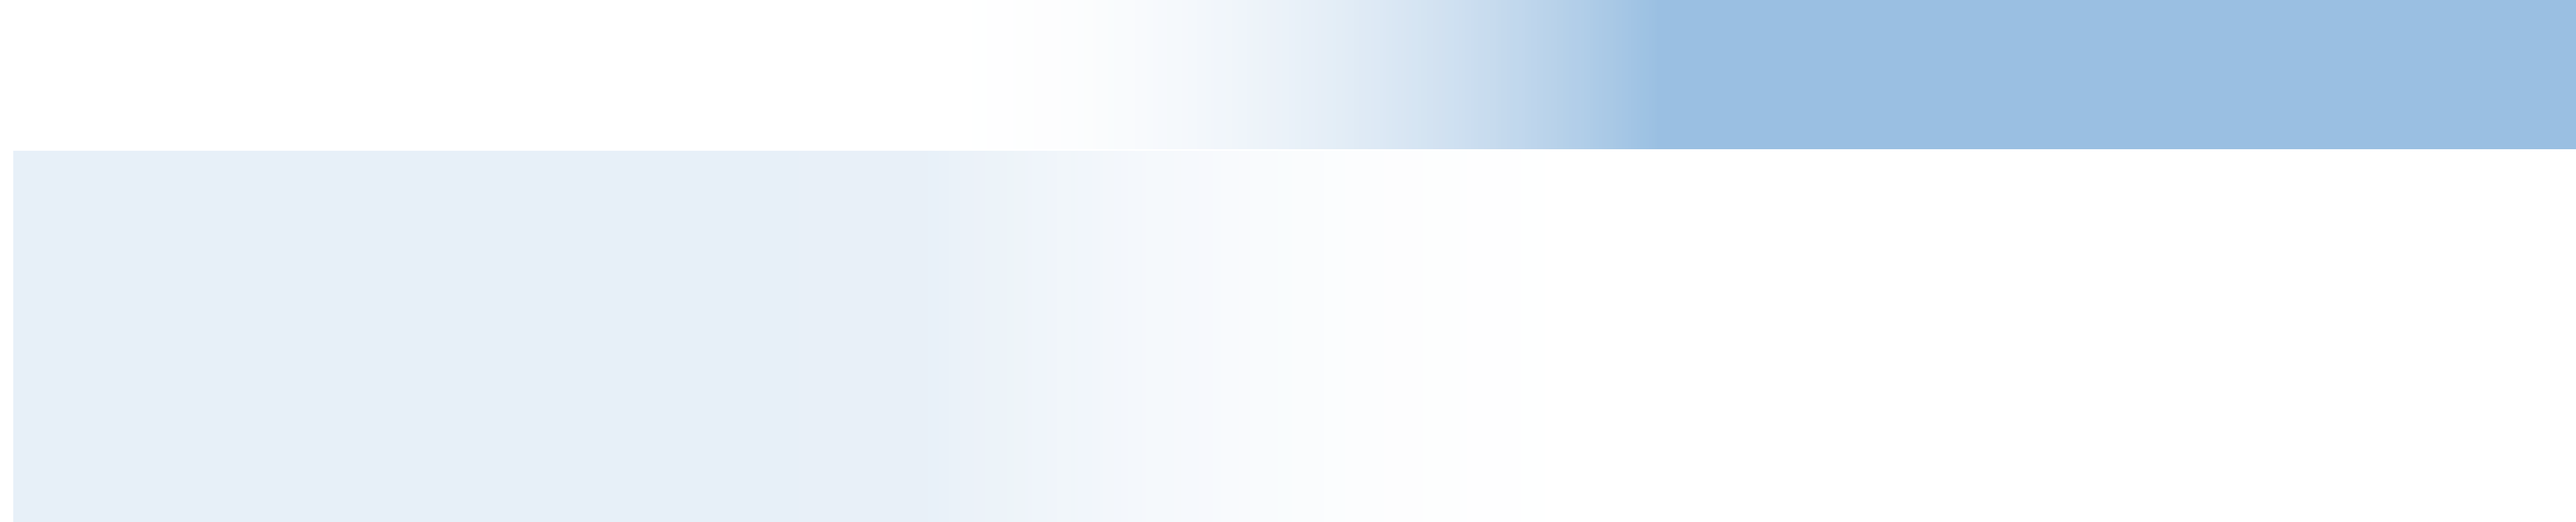
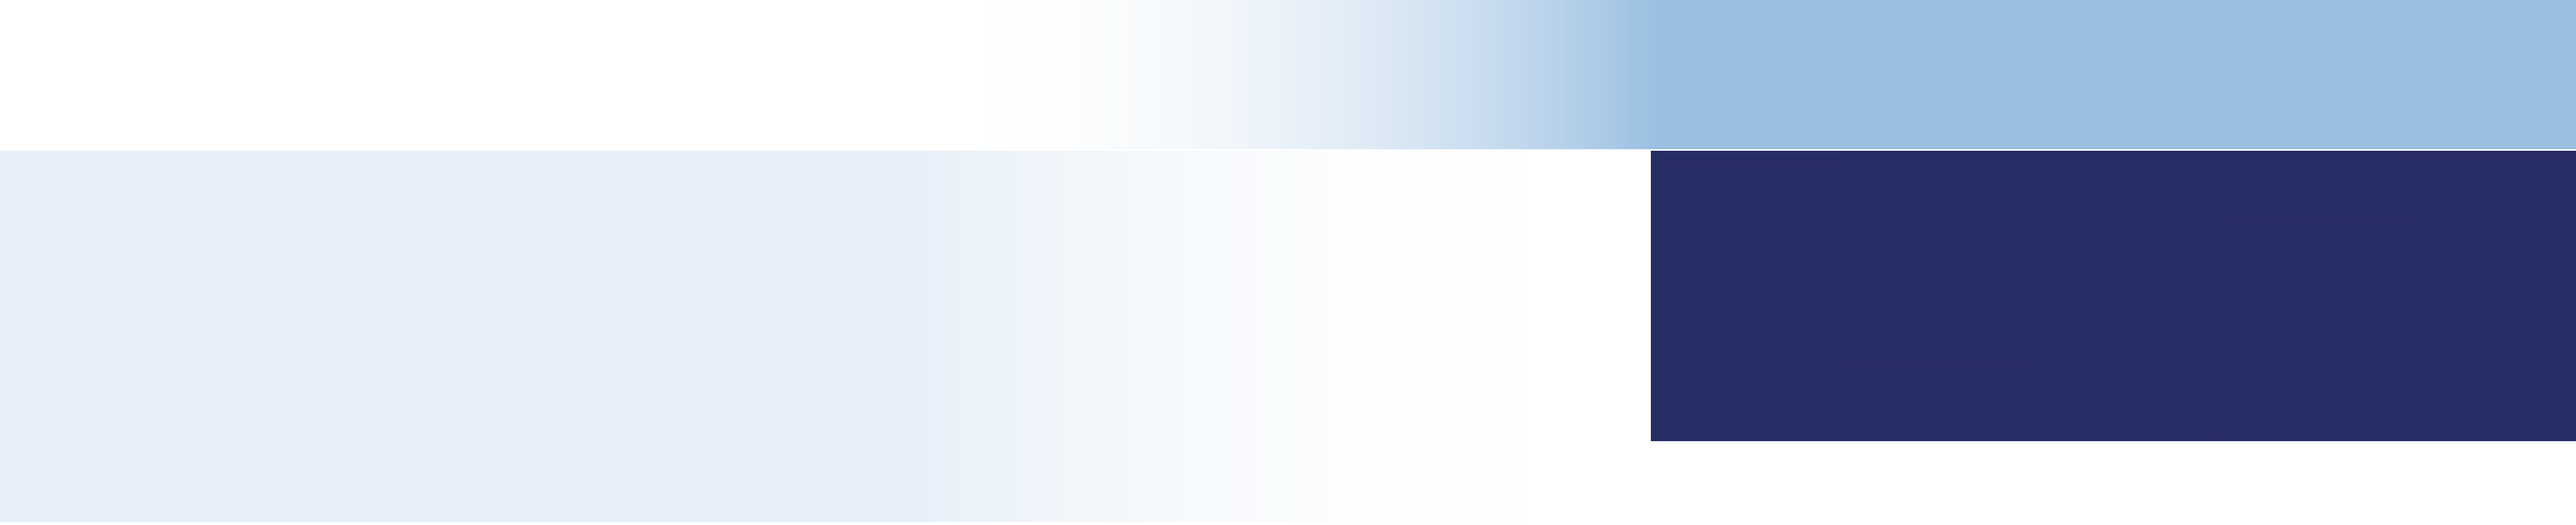
new blog bg

Changed region(s): [[0.6229, 0.2789, 1.0, 0.8676]]

diff --git a/wp-content/themes/fifth-third/css/screen.css b/wp-content/themes/fifth-third/css/screen.css
@@ -511,19 +511,19 @@ h2 {
 
 /* line 1, ../sass/includes/_blog.scss */
 .blog {
[2 lines of base64/hex data omitted]
   background-repeat: no-repeat;
   background-position: top center;
 }
 /* line 5, ../sass/includes/_blog.scss */
 .blog .left {
-  width: 701px;
+  width: 674px;
   height: 393px;
-  padding: 0px 20px 70px 53px;
+  padding: 40px 20px 70px 53px;
 }
 /* line 10, ../sass/includes/_blog.scss */
 .blog .right {
-  width: 323px;
+  width: 350px;
 }
 /* line 12, ../sass/includes/_blog.scss */
 .blog .right .block {
@@ -531,36 +531,35 @@ h2 {
 }
 /* line 16, ../sass/includes/_blog.scss */
 .blog .blog-header {
-  height: 264px;
+  height: 201px;
   padding-left: 53px;
-  margin-bottom: 20px;
 }
-/* line 20, ../sass/includes/_blog.scss */
+/* line 19, ../sass/includes/_blog.scss */
 .blog .blog-header .sprite-logo-blog {
   width: 315px;
   height: 147px;
   margin: 20px 0 0 0;
   float: left;
 }
-/* line 26, ../sass/includes/_blog.scss */
+/* line 25, ../sass/includes/_blog.scss */
 .blog .blog-header .right-side {
   float: left;
   width: 473px;
   margin-top: 44px;
   margin-left: 100px;
 }
-/* line 31, ../sass/includes/_blog.scss */
+/* line 30, ../sass/includes/_blog.scss */
 .blog .blog-header .right-side .item {
   margin-bottom: 15px;
 }
 
 /* post next and previous links */
-/* line 39, ../sass/includes/_blog.scss */
+/* line 38, ../sass/includes/_blog.scss */
 .nav {
   text-align: right;
   margin-top: -25px;
 }
-/* line 42, ../sass/includes/_blog.scss */
+/* line 41, ../sass/includes/_blog.scss */
 .nav a {
   font-weight: 800;
   font-size: 13px;
@@ -568,7 +567,7 @@ h2 {
   margin-left: 15px;
 }
 
-/* line 50, ../sass/includes/_blog.scss */
+/* line 49, ../sass/includes/_blog.scss */
 article {
   margin-bottom: 50px;
   overflow: hidden;
@@ -576,7 +575,7 @@ article {
   float: left;
   width: 280px;
 }
-/* line 56, ../sass/includes/_blog.scss */
+/* line 55, ../sass/includes/_blog.scss */
 article .backLink {
   font-family: "adelle", serif;
   color: #262d63;
@@ -586,52 +585,52 @@ article .backLink {
   font-size: 12px;
   top: 10px;
 }
-/* line 64, ../sass/includes/_blog.scss */
+/* line 63, ../sass/includes/_blog.scss */
 article .backLink:hover {
   text-decoration: underline;
 }
-/* line 68, ../sass/includes/_blog.scss */
+/* line 67, ../sass/includes/_blog.scss */
 article .image {
   float: left;
 }
-/* line 71, ../sass/includes/_blog.scss */
+/* line 70, ../sass/includes/_blog.scss */
 article .text {
   float: left;
   width: 200px;
   margin-left: 28px;
 }
-/* line 76, ../sass/includes/_blog.scss */
+/* line 75, ../sass/includes/_blog.scss */
 article h2 {
   font-family: "adelle", serif;
   margin: 0;
   font-size: 20px;
   font-weight: 800;
 }
-/* line 81, ../sass/includes/_blog.scss */
+/* line 80, ../sass/includes/_blog.scss */
 article h2 a {
   color: #262d63;
 }
-/* line 83, ../sass/includes/_blog.scss */
+/* line 82, ../sass/includes/_blog.scss */
 article h2 a:hover {
   text-decoration: underline;
 }
-/* line 88, ../sass/includes/_blog.scss */
+/* line 87, ../sass/includes/_blog.scss */
 article .excerpt {
   font-size: 13px;
 }
-/* line 91, ../sass/includes/_blog.scss */
+/* line 90, ../sass/includes/_blog.scss */
 article .content {
   height: 260px;
   overflow-y: auto;
   float: left;
   margin-top: 10px;
 }
-/* line 96, ../sass/includes/_blog.scss */
+/* line 95, ../sass/includes/_blog.scss */
 article .content p {
   margin-bottom: 20px;
   font-size: 14px;
 }
-/* line 102, ../sass/includes/_blog.scss */
+/* line 101, ../sass/includes/_blog.scss */
 article .meta .sprite-facebook-small, article .meta .sprite-twitter-small {
   width: 13px;
   height: 12px;
@@ -639,17 +638,17 @@ article .meta .sprite-facebook-small, article .meta .sprite-twitter-small {
   text-indent: -9999px;
   margin: 0px 2px;
 }
-/* line 109, ../sass/includes/_blog.scss */
+/* line 108, ../sass/includes/_blog.scss */
 article .meta.single {
   width: 100%;
   display: block;
   float: left;
 }
-/* line 113, ../sass/includes/_blog.scss */
+/* line 112, ../sass/includes/_blog.scss */
 article .meta.single .sprite-facebook-small, article .meta.single .sprite-twitter-small {
   float: left;
 }
-/* line 117, ../sass/includes/_blog.scss */
+/* line 116, ../sass/includes/_blog.scss */
 article .meta .readMoreLink {
   color: #000;
   font-size: 11px;
@@ -661,7 +660,7 @@ article .meta .readMoreLink {
   margin-left: 10px;
   font-style: italic;
 }
-/* line 127, ../sass/includes/_blog.scss */
+/* line 126, ../sass/includes/_blog.scss */
 article .meta .readMoreLink:hover {
   text-decoration: underline;
 }

diff --git a/wp-content/themes/fifth-third/sass/includes/_blog.scss b/wp-content/themes/fifth-third/sass/includes/_blog.scss
@@ -3,20 +3,19 @@
   background-repeat: no-repeat;
   background-position: top center;
   .left {
-    width: 701px;
+    width: 674px;
     height: 393px;
-    padding: 0px 20px 70px 53px;
+    padding: 40px 20px 70px 53px;
   }
   .right {
-    width: 323px;
+    width: 350px;
     .block {
       width: 331px;
     }
   }
   .blog-header {
-    height: 264px;
+    height: 201px;
     padding-left: 53px;
-    margin-bottom: 20px;
     .sprite-logo-blog {
       width: 315px;
       height: 147px;
